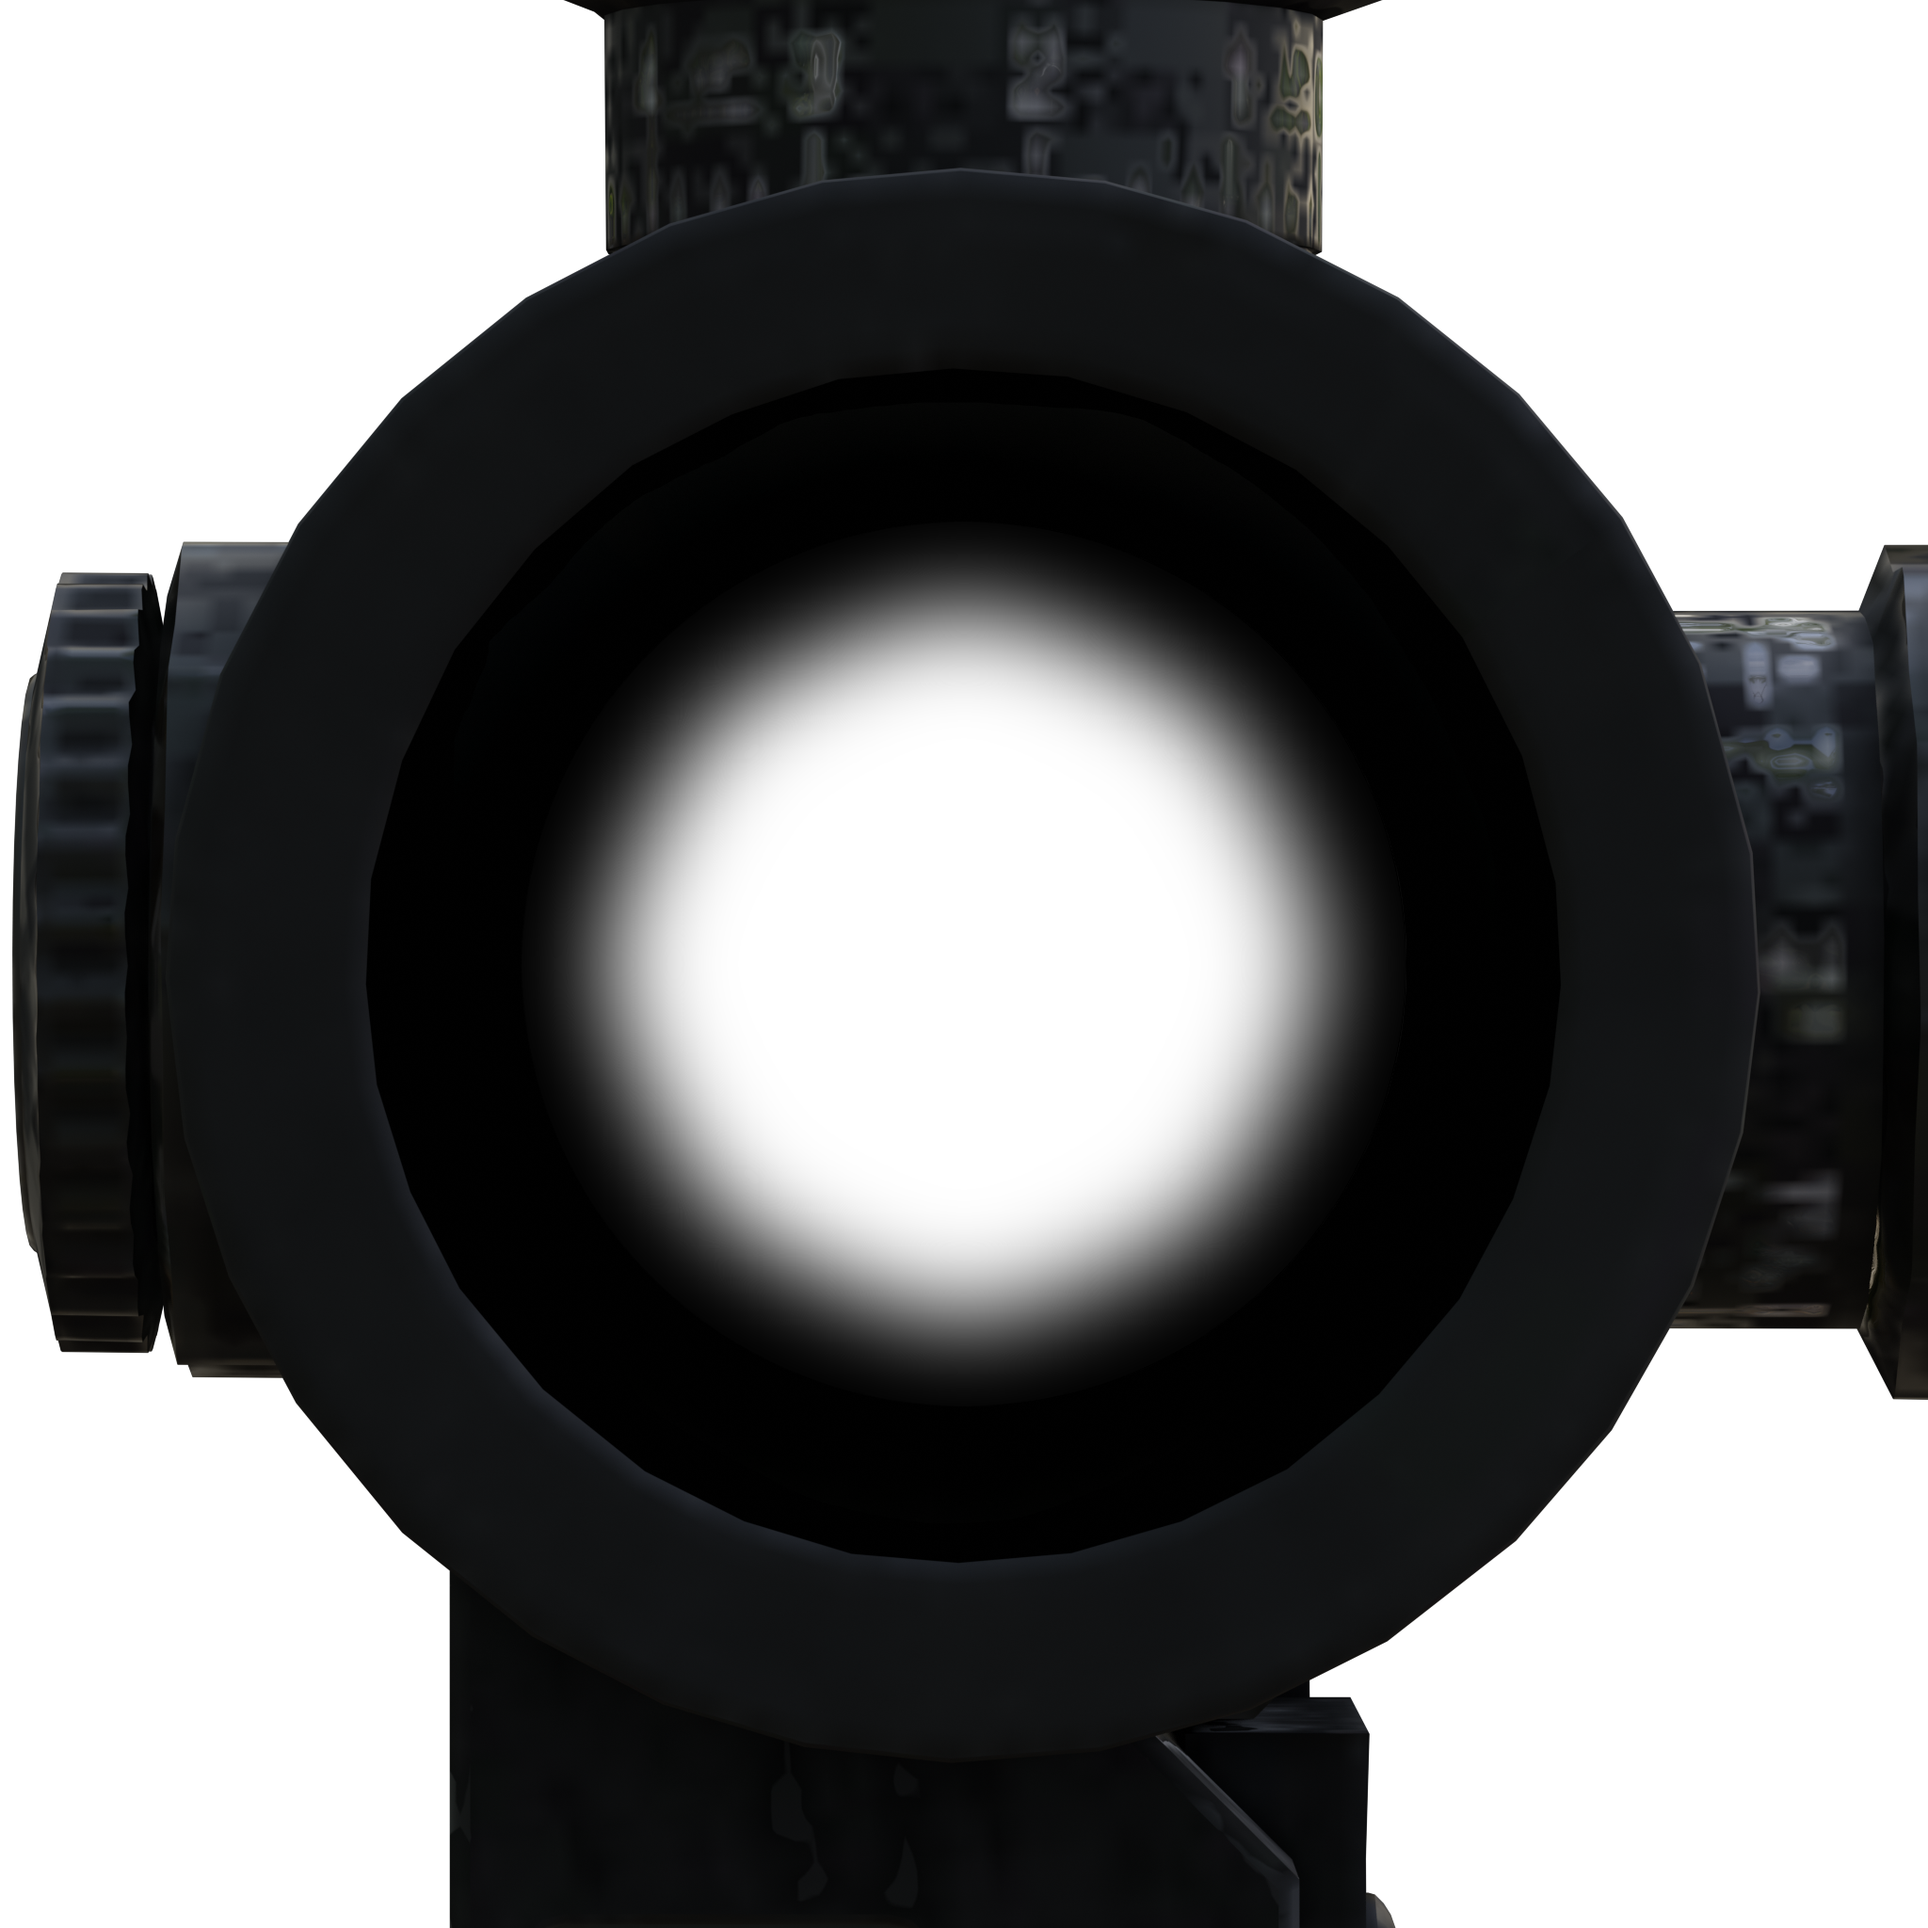
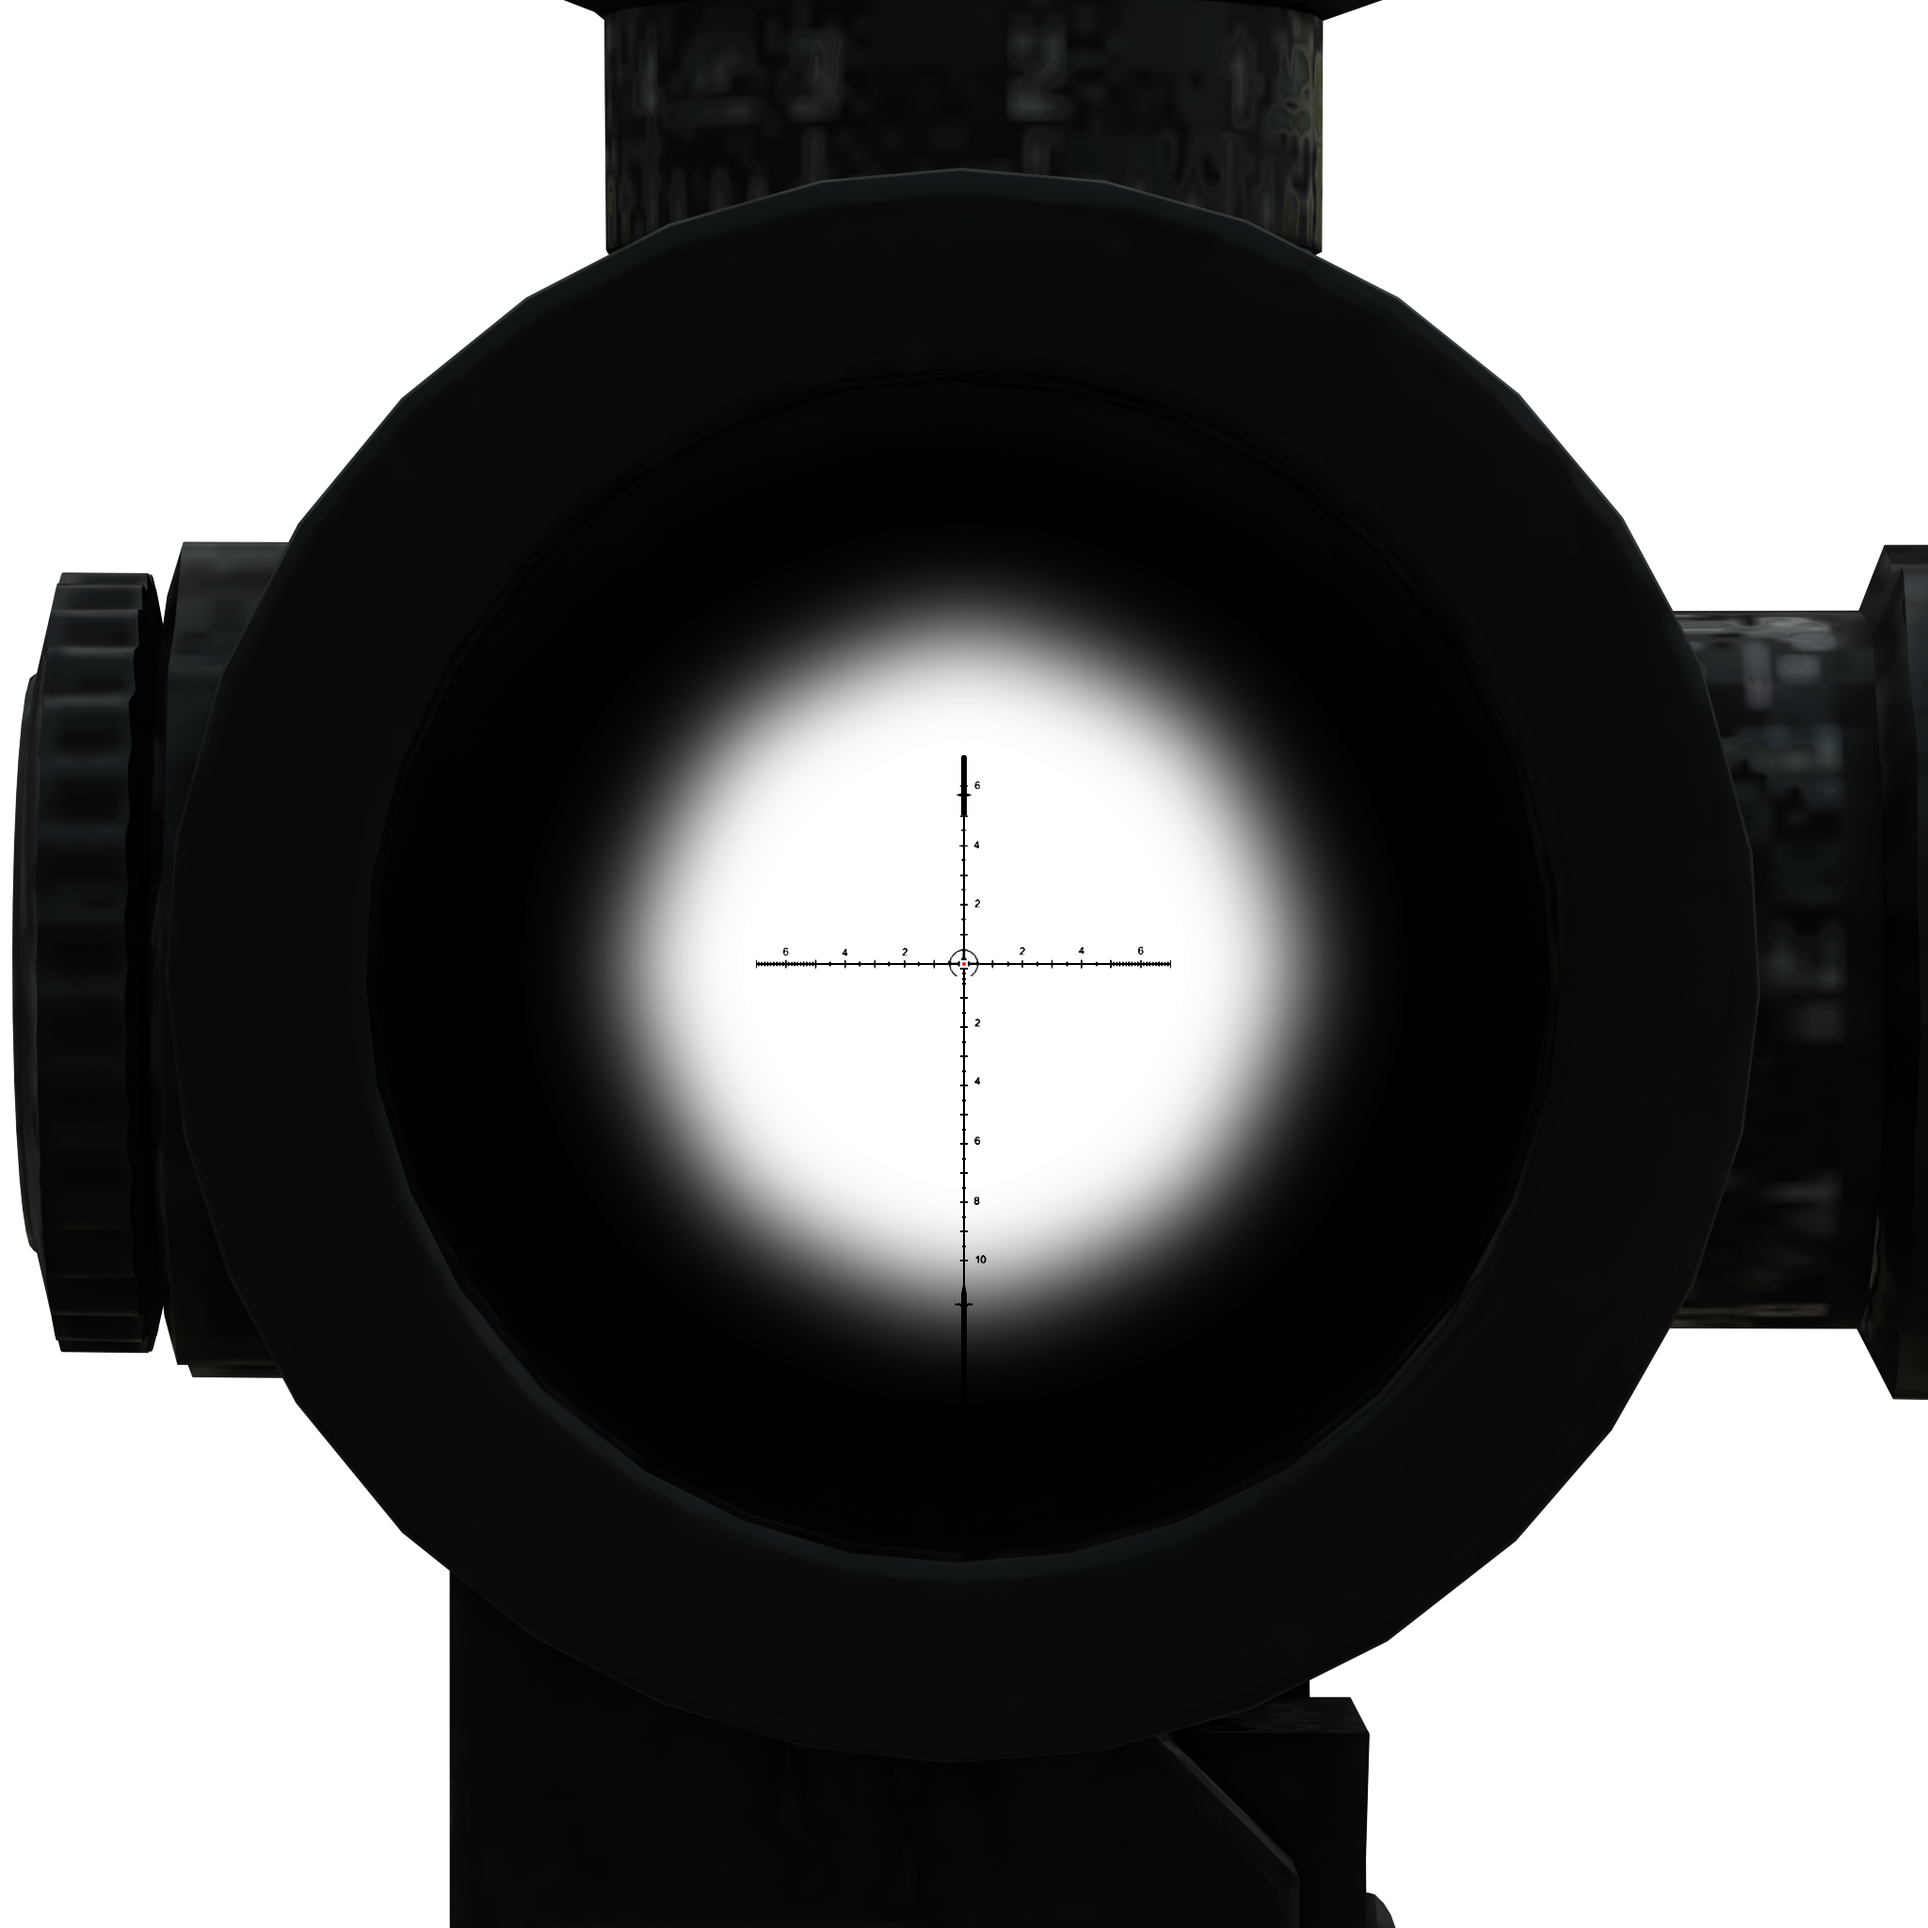
add hotfix scope grid

diff --git a/vlsgame/Rendering/Renderer2D.cs b/vlsgame/Rendering/Renderer2D.cs
@@ -141,7 +141,7 @@ namespace VLSGame.Rendering
                     else
                         fovFactor = (fov - minFOV) / (defaultFOV - minFOV);
 
-                    double maxOffset = MatchTexturePool.ScreenWidth / 30.0;
+                    double maxOffset = MatchTexturePool.ScreenWidth / 15.0;
                     obj.Y = normalized * maxOffset * fovFactor;
                 }
 

diff --git a/vlsgame/ViewModels/RenderManager.cs b/vlsgame/ViewModels/RenderManager.cs
@@ -70,7 +70,7 @@ namespace VLSGame.ViewModels
 
         #endregion
 
-        #region Zoom Animation 
+        #region Weapon stuff
 
         private void CreateWeapon2D()
         {
